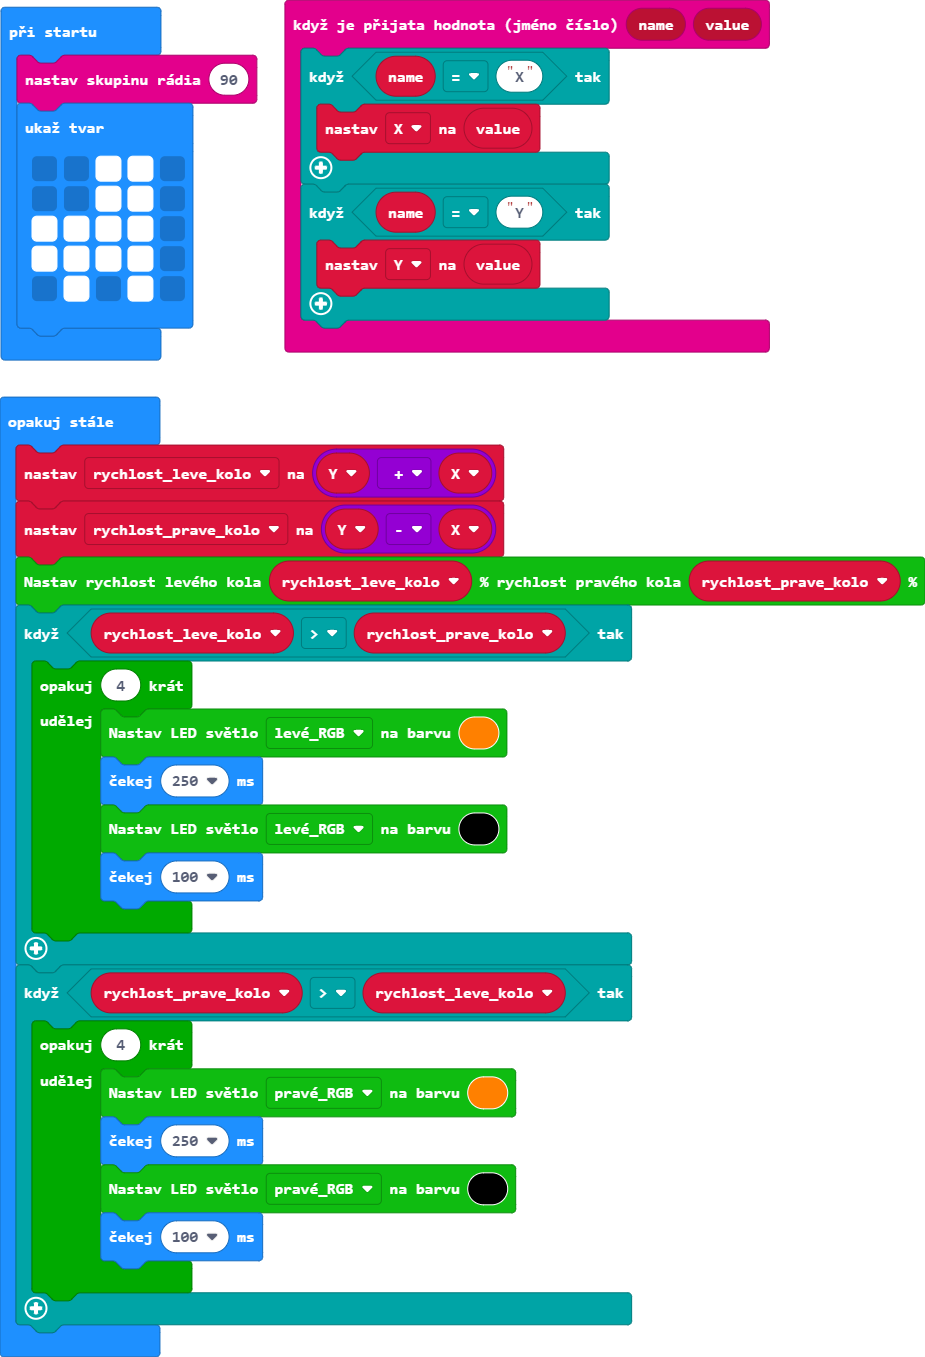
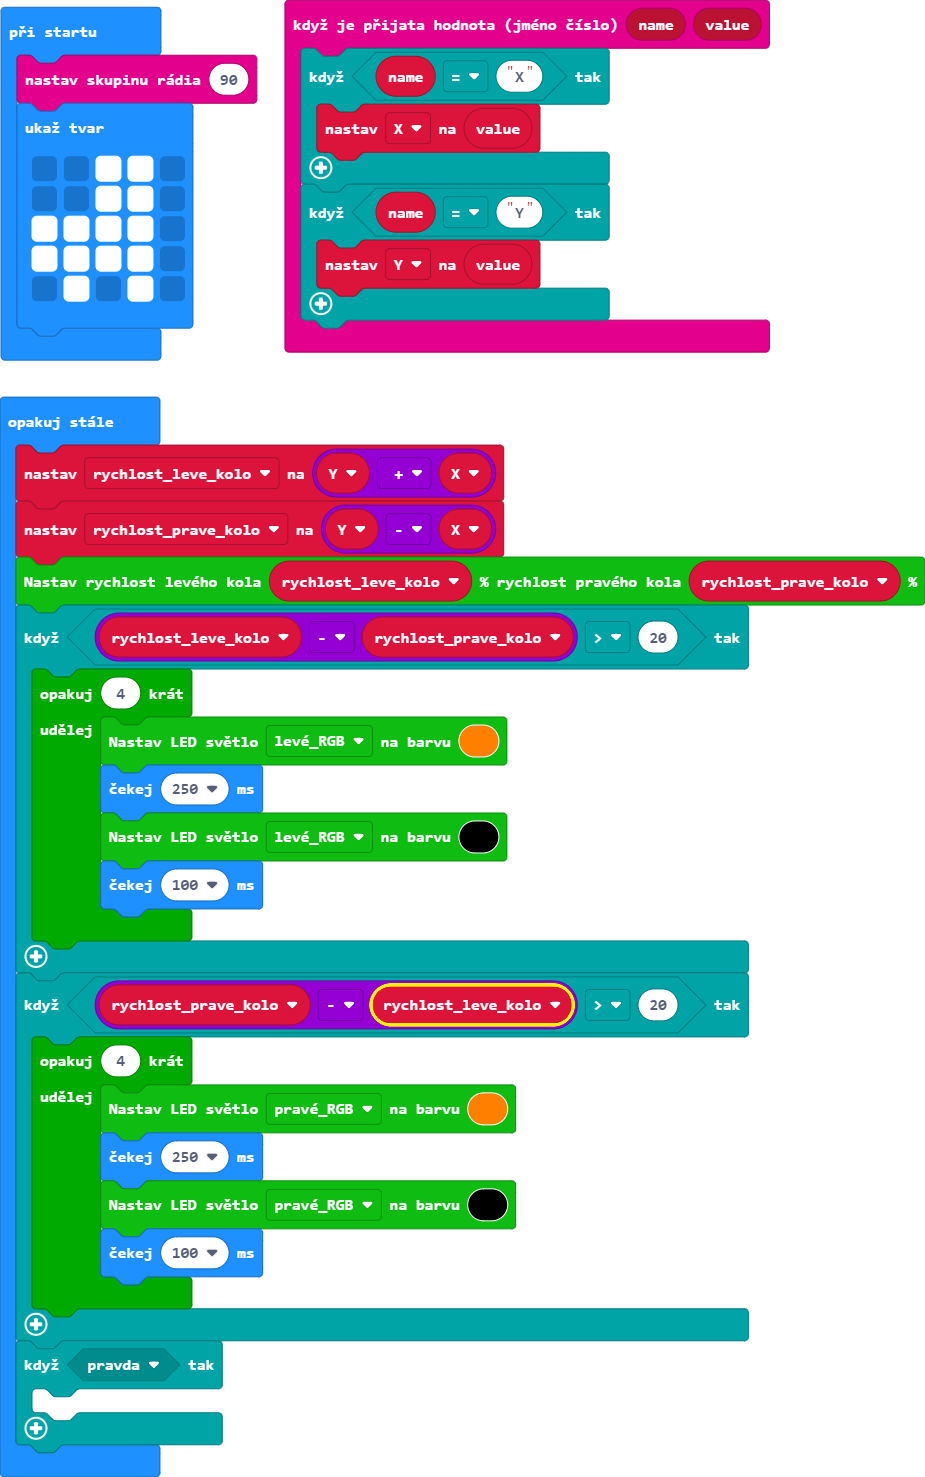
Aktualizovat main.blocks, main.ts

diff --git a/main.ts b/main.ts
@@ -22,7 +22,7 @@ basic.forever(function () {
     rychlost_leve_kolo = Y + X
     rychlost_prave_kolo = Y - X
     cuteBot.motors(rychlost_leve_kolo, rychlost_prave_kolo)
-    if (rychlost_leve_kolo > rychlost_prave_kolo) {
+    if (rychlost_leve_kolo - rychlost_prave_kolo > 20) {
         for (let index = 0; index < 4; index++) {
             cuteBot.colorLight(cuteBot.RGBLights.RGB_R, 0xff8000)
             basic.pause(250)
@@ -30,12 +30,15 @@ basic.forever(function () {
             basic.pause(100)
         }
     }
-    if (rychlost_prave_kolo > rychlost_leve_kolo) {
+    if (rychlost_prave_kolo - rychlost_leve_kolo > 20) {
         for (let index = 0; index < 4; index++) {
             cuteBot.colorLight(cuteBot.RGBLights.RGB_L, 0xff8000)
             basic.pause(250)
             cuteBot.colorLight(cuteBot.RGBLights.RGB_L, 0x000000)
             basic.pause(100)
         }
+    }
+    if (true) {
+    	
     }
 })
